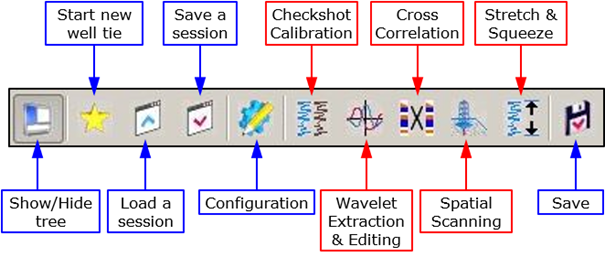
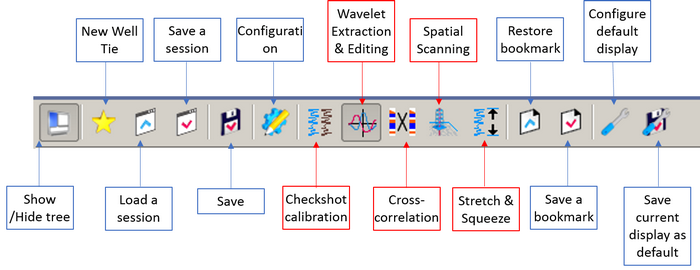
Updates assets/209_Interpretation.png
Auto commit by GitBook Editor

diff --git a/algorithm_documentation/interpretation-processing/the-well-tie-window.md b/algorithm_documentation/interpretation-processing/the-well-tie-window.md
@@ -35,10 +35,12 @@ The icons at the top of Well Tie contain the main functionalities for performing
 ![](/assets/209_Interpretation.png)
 
 **Configuration **enables you to change the data selected \(e.g. choose a different $$V_p$$ log or seismic volume\).  
-**Saving a session** will save the current display and the data selection. Multiple sessions may be saved with different names.  
+**Saving a session** will save the current display and the data selection. Multiple sessions may be saved with different names.7  
 **Save** gives the user the option to save specific groups of data or individual items \(including T/D tables and wavelets\) into the project.
 
 ![](/assets/210_Interpretation.png)
+
+**Bookmark current state **will save the current display and state of all modules and of the main window. By restoring it allows you to get back to a state you were previously happy with. All saved states contain a history. The saved state are deleted when Well Tie is closed. The initial state is saved just after the initialization and can be restored at any time.
 
 **Well Tie Functions**
 
